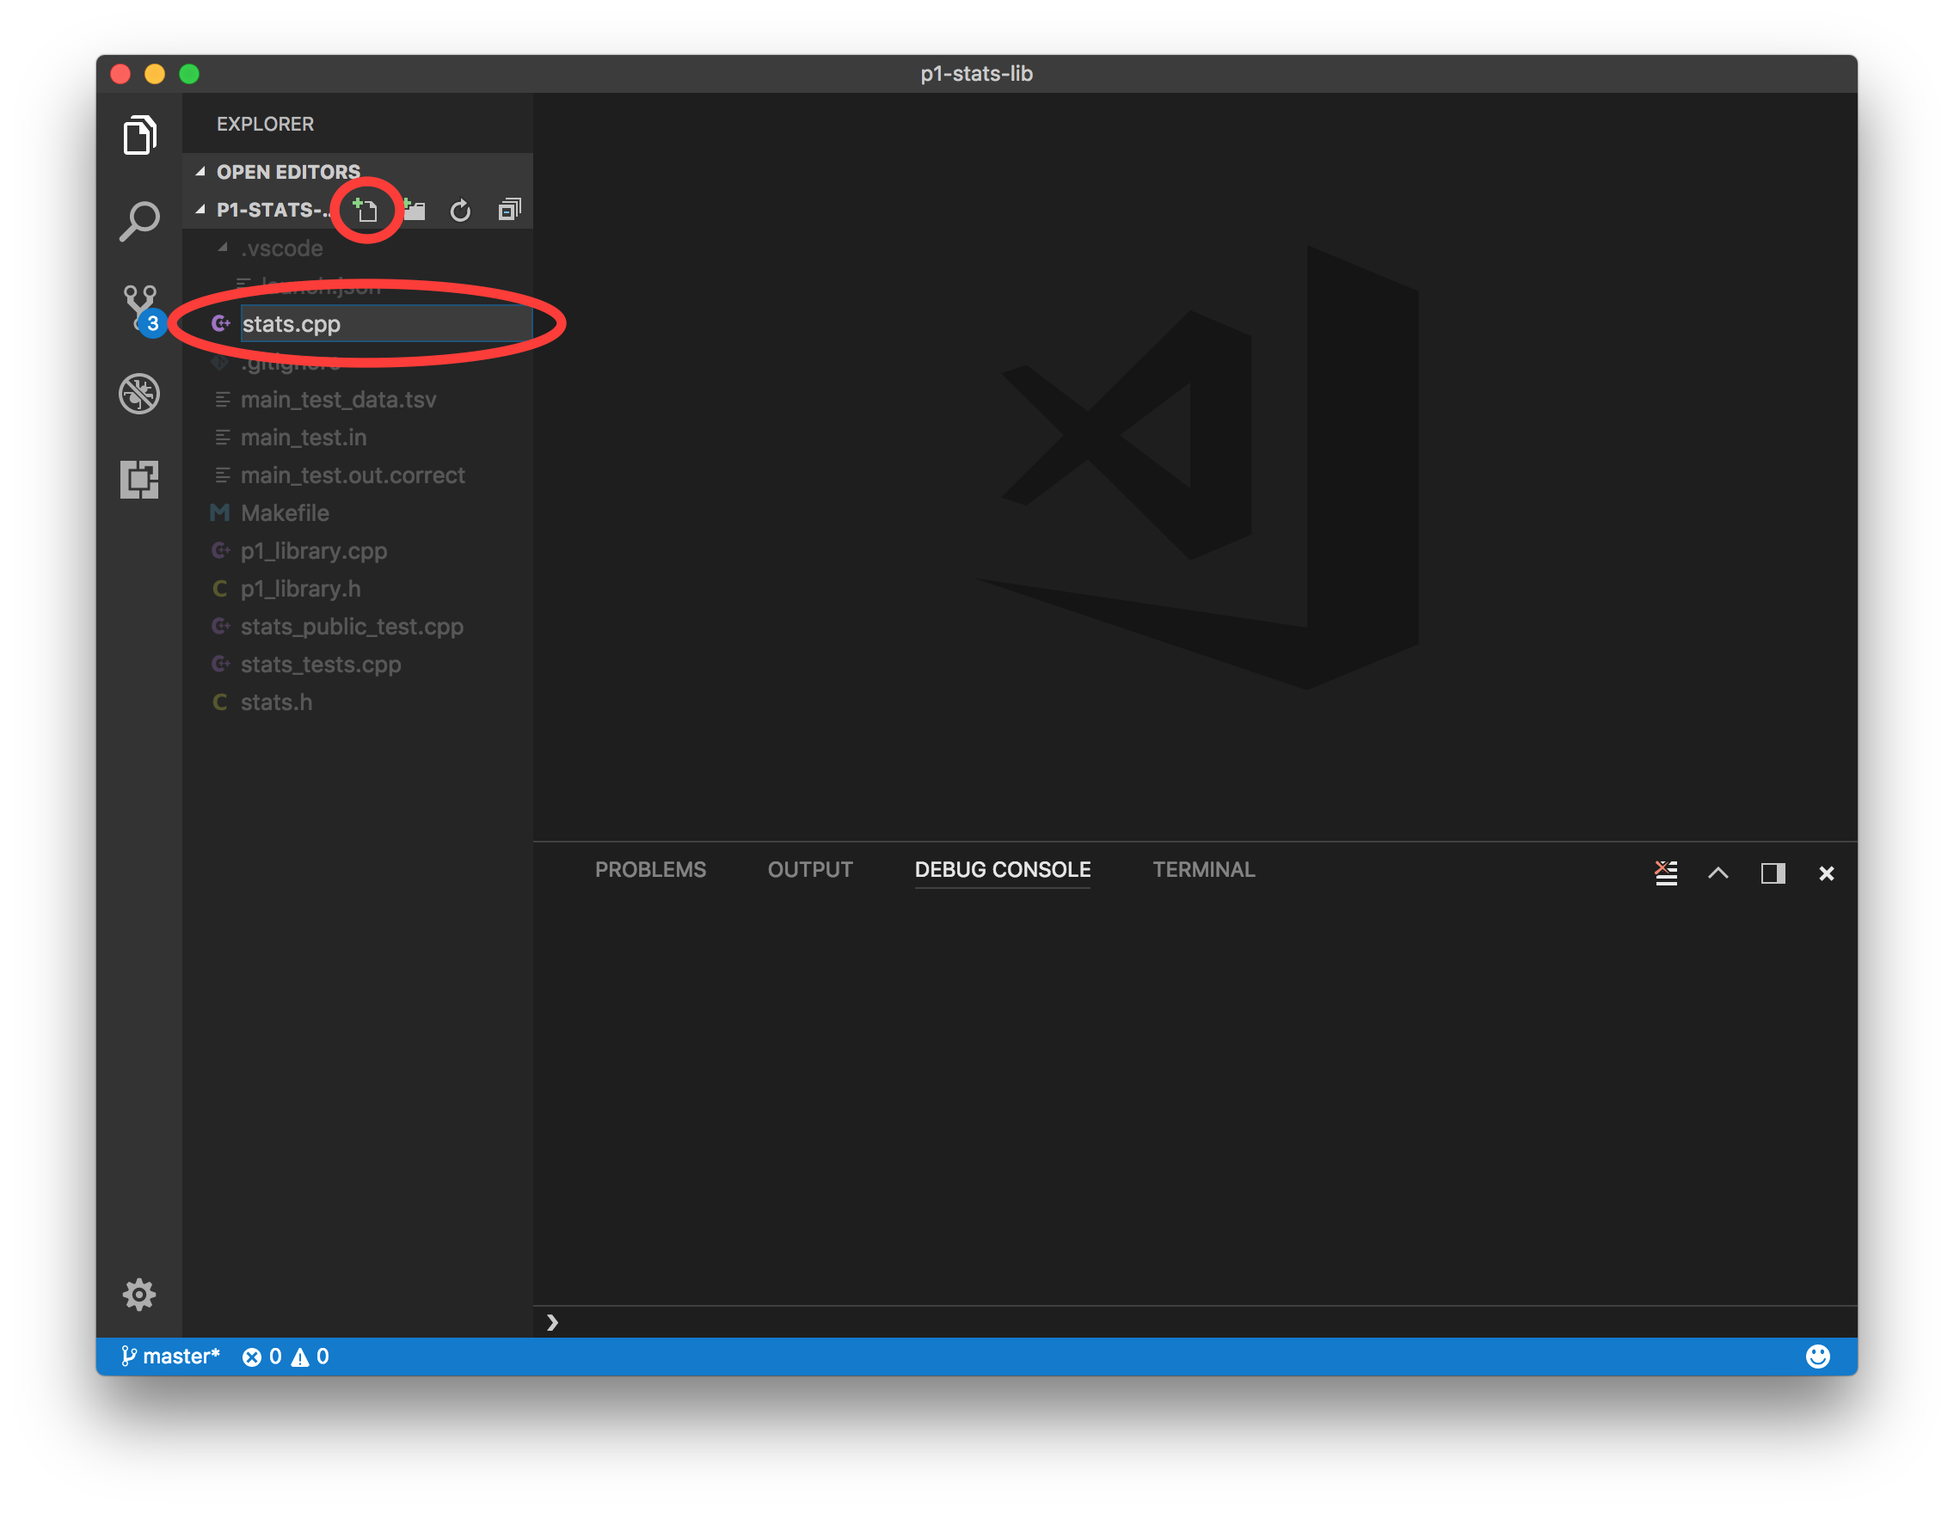
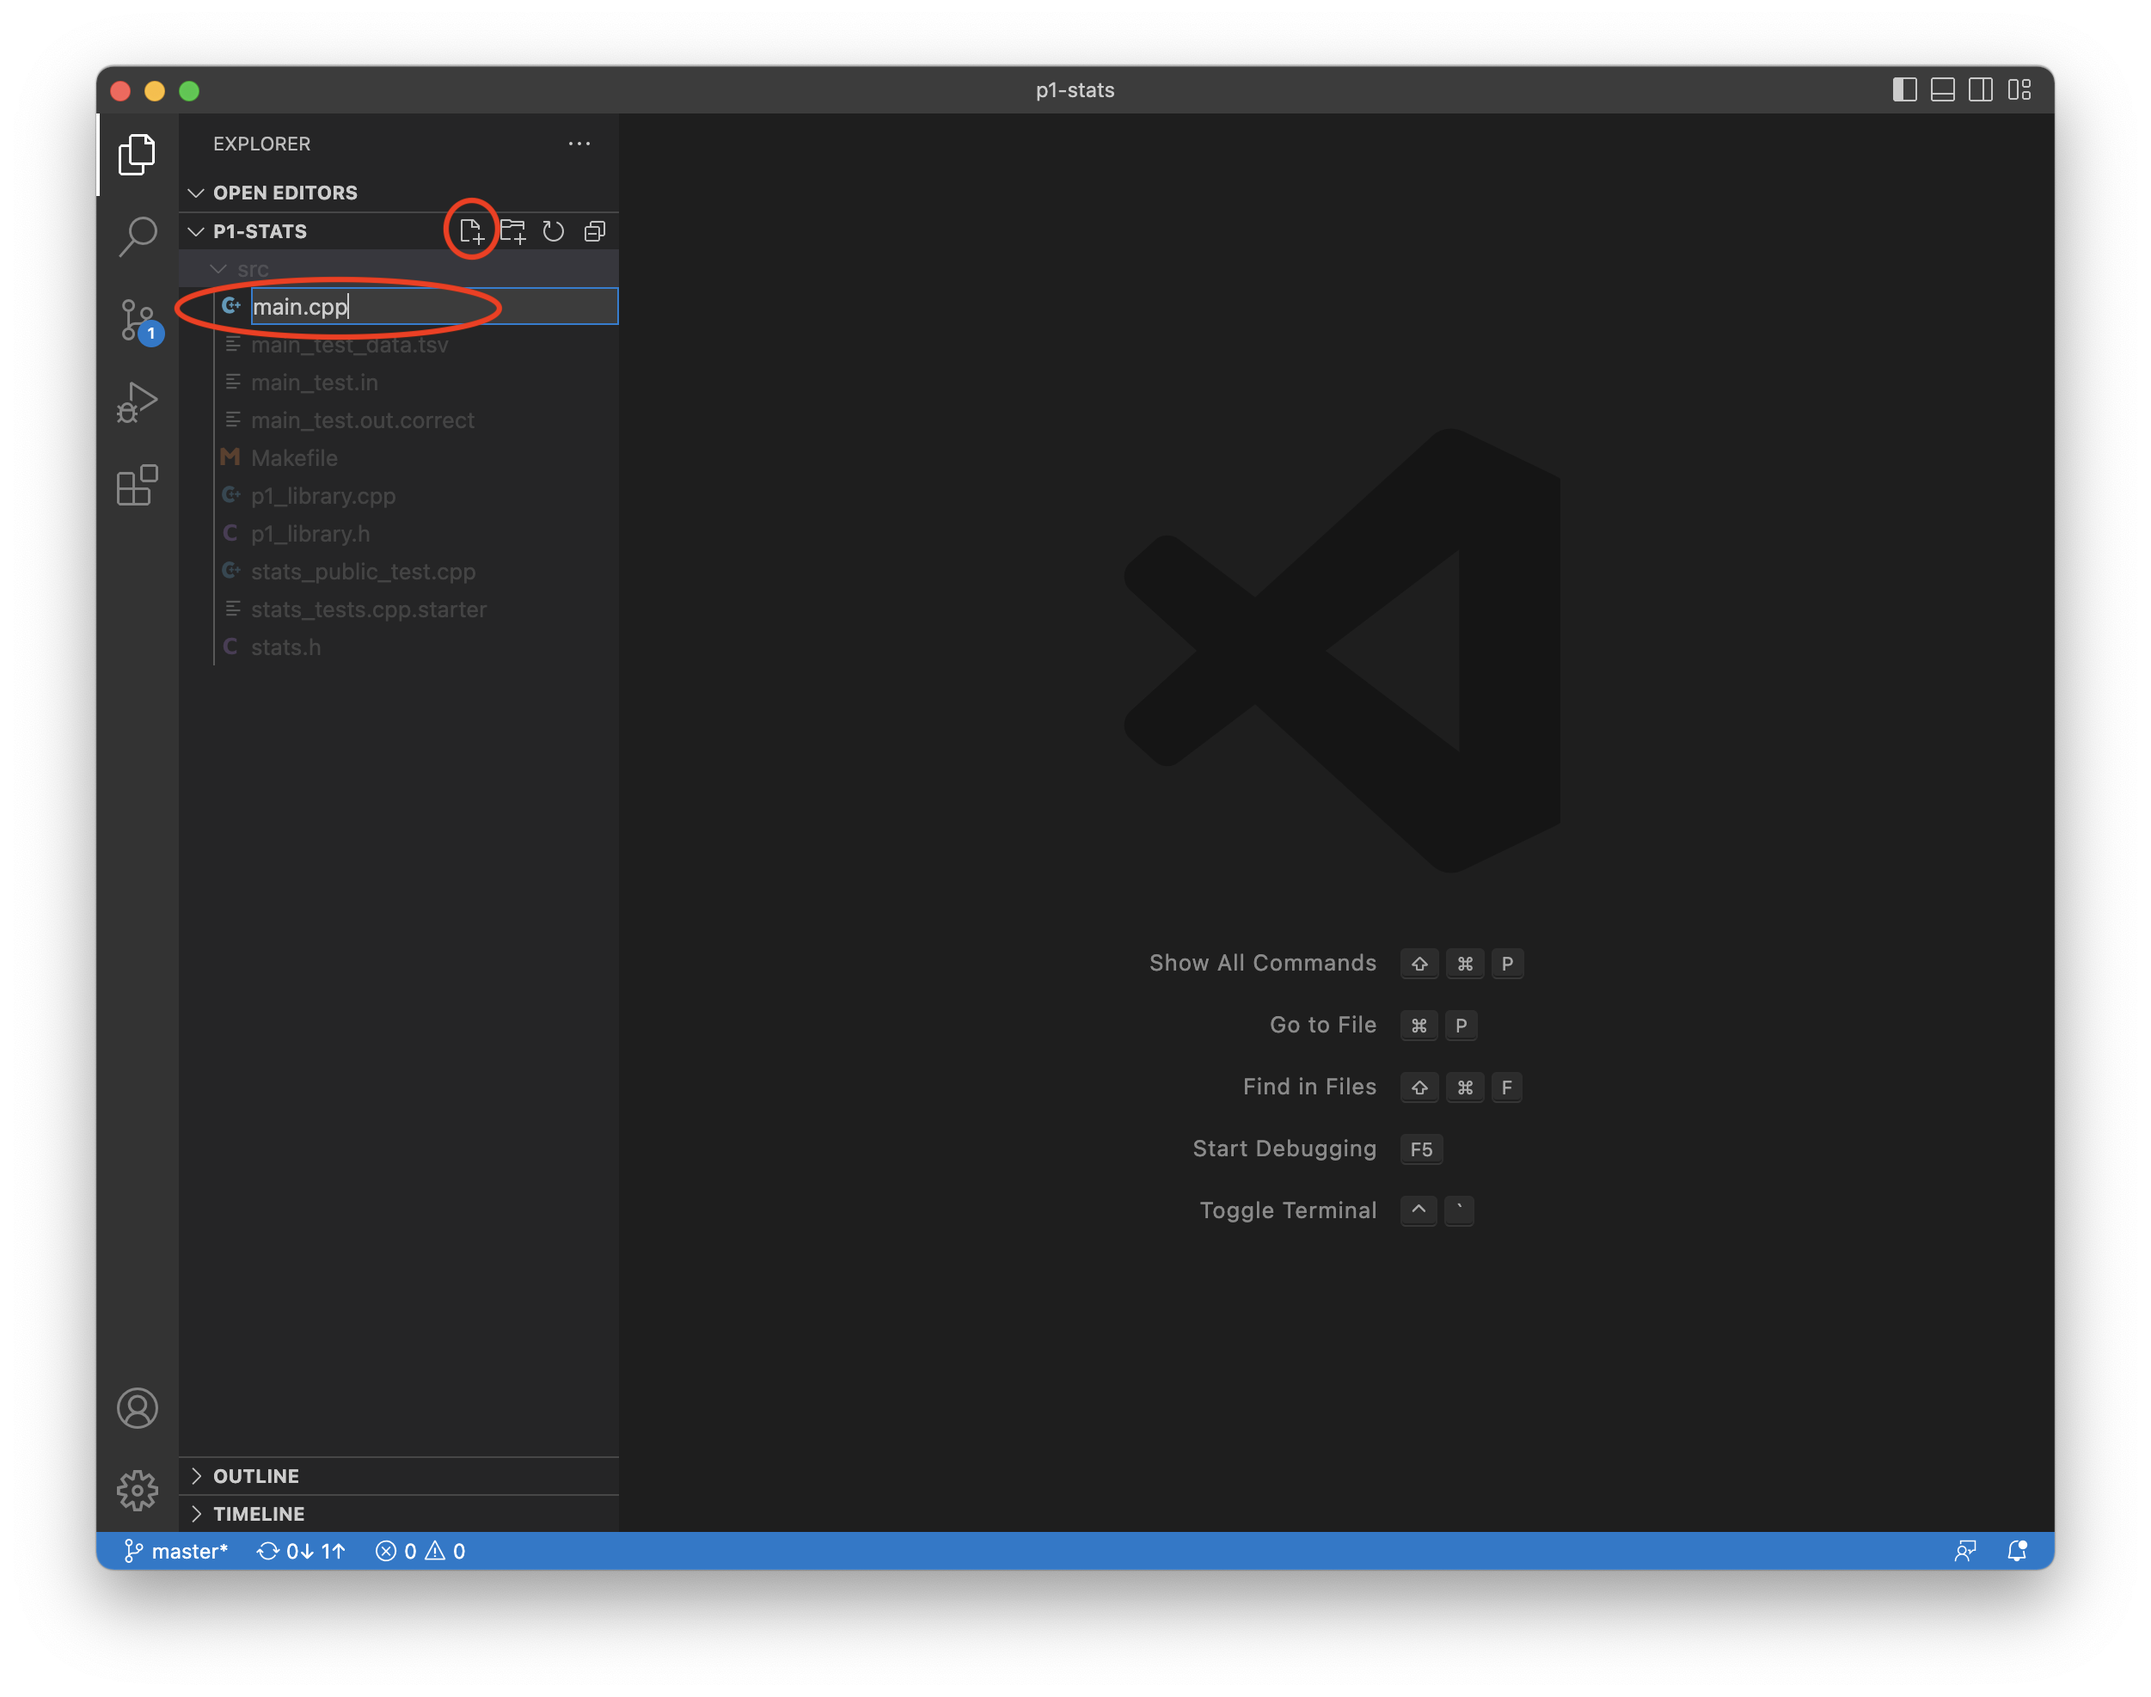
Update VS Code Create a project section

diff --git a/docs/setup_vscode.md b/docs/setup_vscode.md
@@ -71,13 +71,7 @@ $ code --list-extensions
 ms-vscode-remote.remote-wsl
 ```
 
-After the extension is installed, close VS Code and start it from the WSL terminal.
-
-```console
-$ pwd
-/Users/awdeorio/src/eecs280/p1-stats
-$ code .
-```
+After the extension is installed, quit VS Code and start it again.
 
 You'll know that VS Code is running in remote mode when you see the remote mode indicator in the bottom left corner.
 
@@ -128,51 +122,84 @@ $ code --uninstall-extension vadimcn.vscode-lldb
 
 
 ## Create a project
-To create a VS Code project, create a folder and add files to it.  There are many ways to create folders and files that work with VS Code.  We'll use the terminal.
-- Finder AKA File Explorer
-- VS Code graphical user interface
-- VS Code integrated terminal
-- System terminal
+To create a VS Code project, create a folder (directory).  There are many ways to create folders and files that work with VS Code: Finder AKA File Explorer, VS Code graphical user interface, VS Code integrated terminal, and the system terminal.  We'll use the terminal.
 
-Decide where to store your EECS 280 projects.  For reference, here are some common locations.  You might want to use your Desktop, Documents or Dropbox.
-
-
-At this point, you should already have a folder for your project ([instructions](setup.html#create-a-folder)).  Your folder location might be different.  You should have downloaded and unpacked the starter files already ([instructions](setup.html#download-and-unpack-starter-files)).
+Navigate to a directory where you will store your EECS 280 projects, create a directory, then move into the new directory. (`awdeorio` likes to use a directory called `src` in his home directory.)  Your folder location might be different.
 ```console
-$ pwd
-/Users/awdeorio/src/eecs280/p1-stats
-$ ls
-Makefile      main_test.out.correct  p1_library.h           stats_tests.cpp
-README.md     main_test_data.tsv     stats.h
-main_test.in  p1_library.cpp         stats_public_test.cpp
+$ cd /Users/awdeorio/src/eecs280
+$ mkdir p1-stats
+$ cd p1-stats
 ```
 
-Start VS Code.
+Start VS Code and open your project folder by selecting `File` > `Open Folder...` > navigate to the `p1-stats` folder.
+
+Here's a quick way to do it from the command line.
 ```console
 $ pwd
 /Users/awdeorio/src/eecs280/p1-stats
 $ code .
 ```
 
+<img src="images/vscode020.png" width="768px" />
+
+### Add existing files
+If you have starter files, add them to your project directory.  We'll download some files and put them in a subdirectory called `src`.
+
+Download starter files, unpack, and move to `src` subdirectory.  **Pro-tip:** [copy/paste instructions for WSL](setup_wsl.html#how-do-i-copy-and-paste).
+```console
+$ pwd
+/Users/awdeorio/src/eecs280/p1-stats
+$ wget https://eecs280staff.github.io/p1-stats/starter-files.tar.gz
+$ tar -xvzf starter-files.tar.gz
+$ mv starter-files src
+$ rm starter-files.tar.gz
+```
+
+At this point, you should have existing files in a `src` subdirectory.
+```console
+$ tree
+.
+└── src
+    ├── Makefile
+    ├── main_test.in
+    ├── main_test.out.correct
+    ├── main_test_data.tsv
+    ├── p1_library.cpp
+    ├── p1_library.h
+    ├── stats.h
+    ├── stats_public_test.cpp
+    └── stats_tests.cpp.starter
+```
+
+In VS Code, open your project folder by selecting `File` > `Open Folder...` > navigate to the `p1-stats` folder or from the command line.
+
+You should see your files.
+<img src="images/vscode022.png" width="768px" />
+
+
 ### Add new files
-EECS 280 project 1 requires us to create two new files: `stats.cpp` and `main.cpp`.
+Open your project folder by selecting `File` > `Open Folder...` > navigate to the `p1-stats` folder.
 
-Open the p1-stats folder by selecting `File` > `Open Folder...` > navigate to the p1-stats folder.
-
-Select the add file icon and name the new file `stats.cpp`.  Do this again to create `main.cpp`.
+Select the add file icon and give it a name, e.g., `main.cpp`.
 
 <img src="images/vscode025.png" width="768px" />
 
-You'll also see the new files at the command line.
-```console
-$ ls
-Makefile      main_test.out.correct  p1_library.h  stats_public_test.cpp
-main.cpp      main_test_data.tsv     stats.cpp     stats_tests.cpp
-main_test.in  p1_library.cpp         stats.h
-```
+Here's a sample main program that works with EECS 280 Project 1.
+```c++
+// main.cpp
+// Project UID 5366c7e2b77742d5b2142097e51561a5
+#include "stats.h"
+#include "p1_library.h"
+#include <iostream>
+using namespace std;
 
-#### Project 1 `stats.cpp`
-Now let's modify the files that you created.  Edit `stats.cpp` and add function stubs.  A function stub contains only `assert(false)`; it's like a placeholder that we'll use to get our application to compile.  Each of these stubs corresponds to a function prototype in `stats.h`.  Don't forget to save.
+int main() {
+  cout << "hello from main!\n";
+}
+```
+{: data-title="main.cpp" }
+
+Do this again to create additional files, e.g., the EECS 280 project 1 library `stats.cpp`.  We'll add function stubs.  A function stub contains only `assert(false)`; it's like a placeholder that we'll use to get our application to compile.  Each of these stubs corresponds to a function prototype in `stats.h`.  Don't forget to save.
 ```c++
 // stats.cpp
 // Project UID 5366c7e2b77742d5b2142097e51561a5
@@ -224,23 +251,6 @@ double percentile(vector<double> v, double p) {
 }
 ```
 {: data-title="stats.cpp" }
-
-#### Project 1 `main.cpp`
-Start your `main.cpp` like this.  All it does so far is "hello world".  We'll include a few libraries that will be useful later.
-```c++
-// main.cpp
-// Project UID 5366c7e2b77742d5b2142097e51561a5
-#include "stats.h"
-#include "p1_library.h"
-#include <iostream>
-using namespace std;
-
-int main() {
-  cout << "hello from main!\n";
-}
-```
-{: data-title="main.cpp" }
-
 
 ## Compile
 VS Code uses an executable you build at the command line.  One executable should have exactly one `main()` function.  Three of our project 1 files have `main()` functions.
